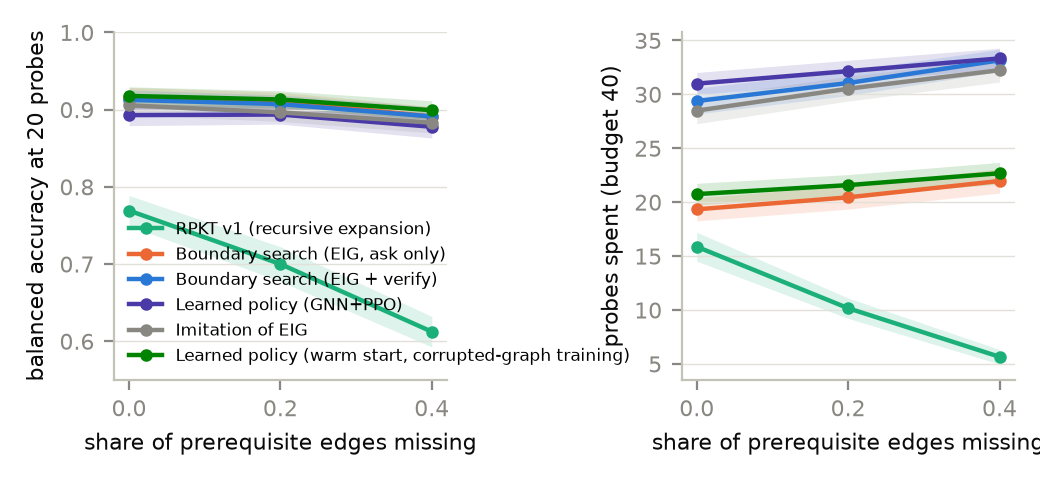
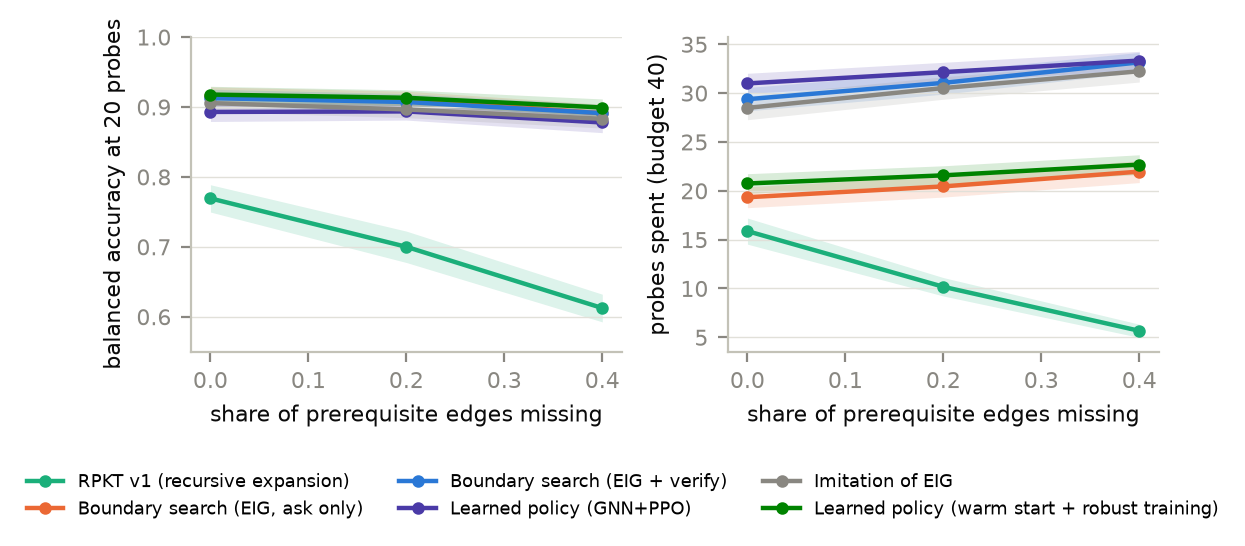
Fix corruption figure legend layout
Claude-Session: https://claude.ai/code/session_013VFZY9A2DmHtzKofrpUFsV

diff --git a/experiments/figures.py b/experiments/figures.py
@@ -23,7 +23,7 @@ COLORS = {"eig": "#2a78d6", "eig_noverify": "#eb6834", "rpkt_v1": "#1baf7a", "ra
 LABELS = {"eig": "Boundary search (EIG + verify)", "eig_noverify": "Boundary search (EIG, ask only)",
           "rpkt_v1": "RPKT v1 (recursive expansion)", "random": "Random", "enumerate": "Enumerate",
           "rl": "Learned policy (GNN+PPO)", "rl_nobelief": "Learned policy (no belief features)",
-          "rl_robust": "Learned policy (warm start, corrupted-graph training)", "bc": "Imitation of EIG"}
+          "rl_robust": "Learned policy (warm start + robust training)", "bc": "Imitation of EIG"}
 ORDER = ["rpkt_v1", "random", "enumerate", "eig_noverify", "eig", "rl", "rl_nobelief", "bc", "rl_robust"]
 INK, MUTED, GRID = "#0b0b0b", "#898781", "#e1e0d9"
 
@@ -95,7 +95,7 @@ def fig_overclaim(df: pd.DataFrame, out: Path) -> None:
 def fig_corruption(df: pd.DataFrame, out: Path) -> None:
     """Accuracy at 20 probes and probes spent vs. share of missing prerequisite edges (no spurious edges)."""
     d0 = df[df.edge_add.round(2) == 0.0]
-    fig, axes = plt.subplots(1, 2, figsize=(5.2, 2.4))
+    fig, axes = plt.subplots(1, 2, figsize=(5.6, 2.6))
     for ax, metric, ylabel in zip(axes, ["balacc_at_20", "cost"], ["balanced accuracy at 20 probes", "probes spent (budget 40)"]):
         for pol in ORDER:
             d = d0[d0.policy == pol]
@@ -109,10 +109,11 @@ def fig_corruption(df: pd.DataFrame, out: Path) -> None:
         ax.set_ylabel(ylabel)
         ax.grid(axis="y", color=GRID, lw=0.5)
     axes[0].set_ylim(0.55, 1.0)
-    axes[0].legend(frameon=False, fontsize=6, loc="lower left")
-    fig.tight_layout()
-    fig.savefig(out / "fig_corruption.pdf")
-    fig.savefig(out / "fig_corruption.png", dpi=200)
+    handles, labels = axes[0].get_legend_handles_labels()
+    fig.legend(handles, labels, frameon=False, fontsize=6.5, loc="lower center", ncol=3, bbox_to_anchor=(0.5, -0.02))
+    fig.tight_layout(rect=(0, 0.14, 1, 1))
+    fig.savefig(out / "fig_corruption.pdf", bbox_inches="tight")
+    fig.savefig(out / "fig_corruption.png", dpi=200, bbox_inches="tight")
 
 
 def main() -> None:
